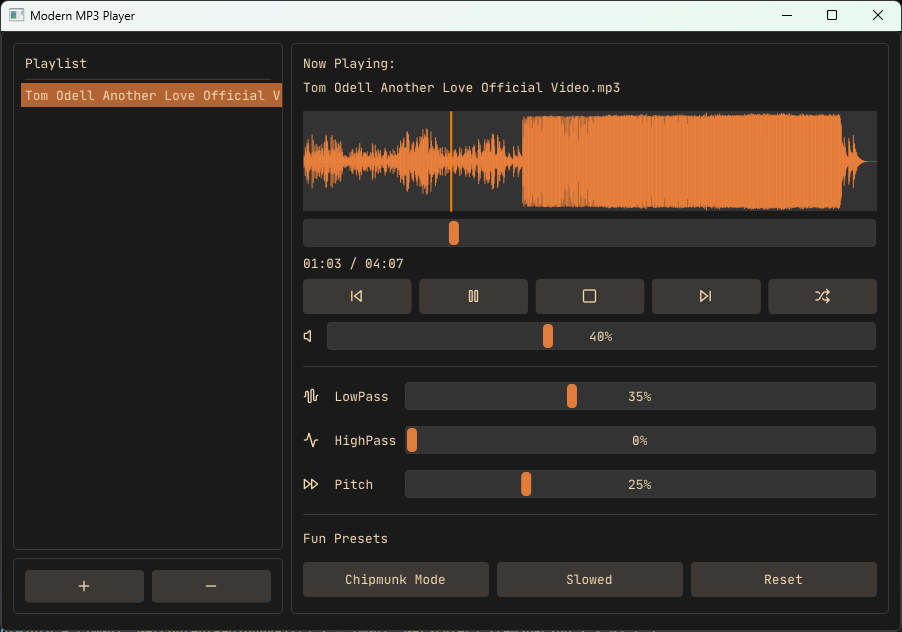
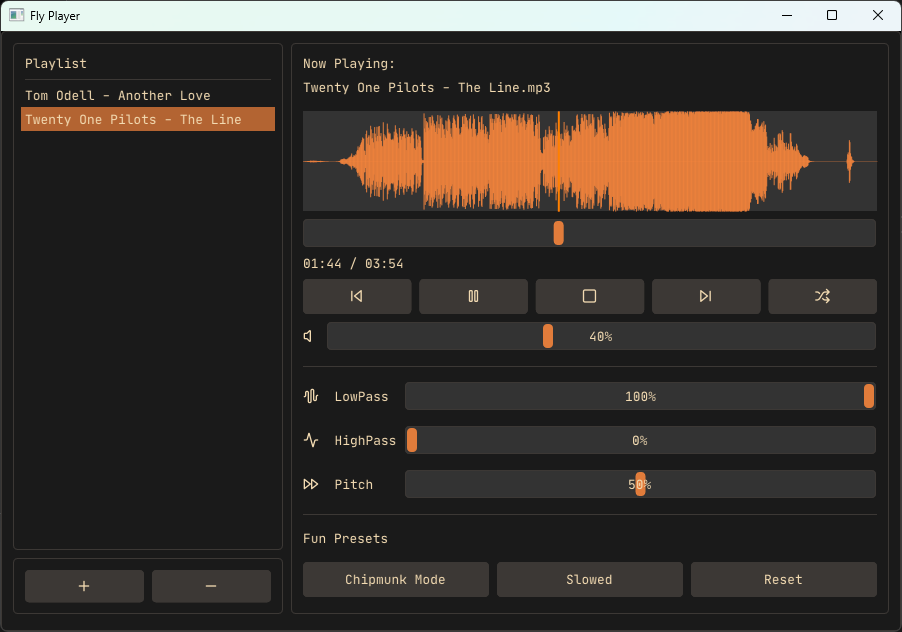
Correct the window name and cleaned the file names in the playlists.

diff --git a/Fly/src/Window.cpp b/Fly/src/Window.cpp
@@ -143,6 +143,10 @@ void Window::RenderPlaylistPanel() {
 	const auto& playlist = m_mp3Player->getPlaylist();
 	for (size_t i = 0; i < playlist.size(); i++) {
 		std::string filename = std::filesystem::path(playlist[i]).filename().string();
+		// Remove the file extension
+		filename = filename.substr(0, filename.find_last_of('.'));
+
+		// Selectable track
 		if (ImGui::Selectable(filename.c_str(), m_mp3Player->getCurrentTrack() == playlist[i])) {
 			m_mp3Player->loadTrack(playlist[i]);
 			m_mp3Player->play();

diff --git a/Fly/src/main.cpp b/Fly/src/main.cpp
@@ -7,7 +7,7 @@ int main(int, char**)
     HelloImGui::RunnerParams params;
 
     // Window configuration
-    params.appWindowParams.windowTitle = "Modern MP3 Player";
+    params.appWindowParams.windowTitle = "Fly Player";
     params.appWindowParams.windowGeometry.size = { 900, 600 };
     params.appWindowParams.windowGeometry.sizeAuto = false;
 
